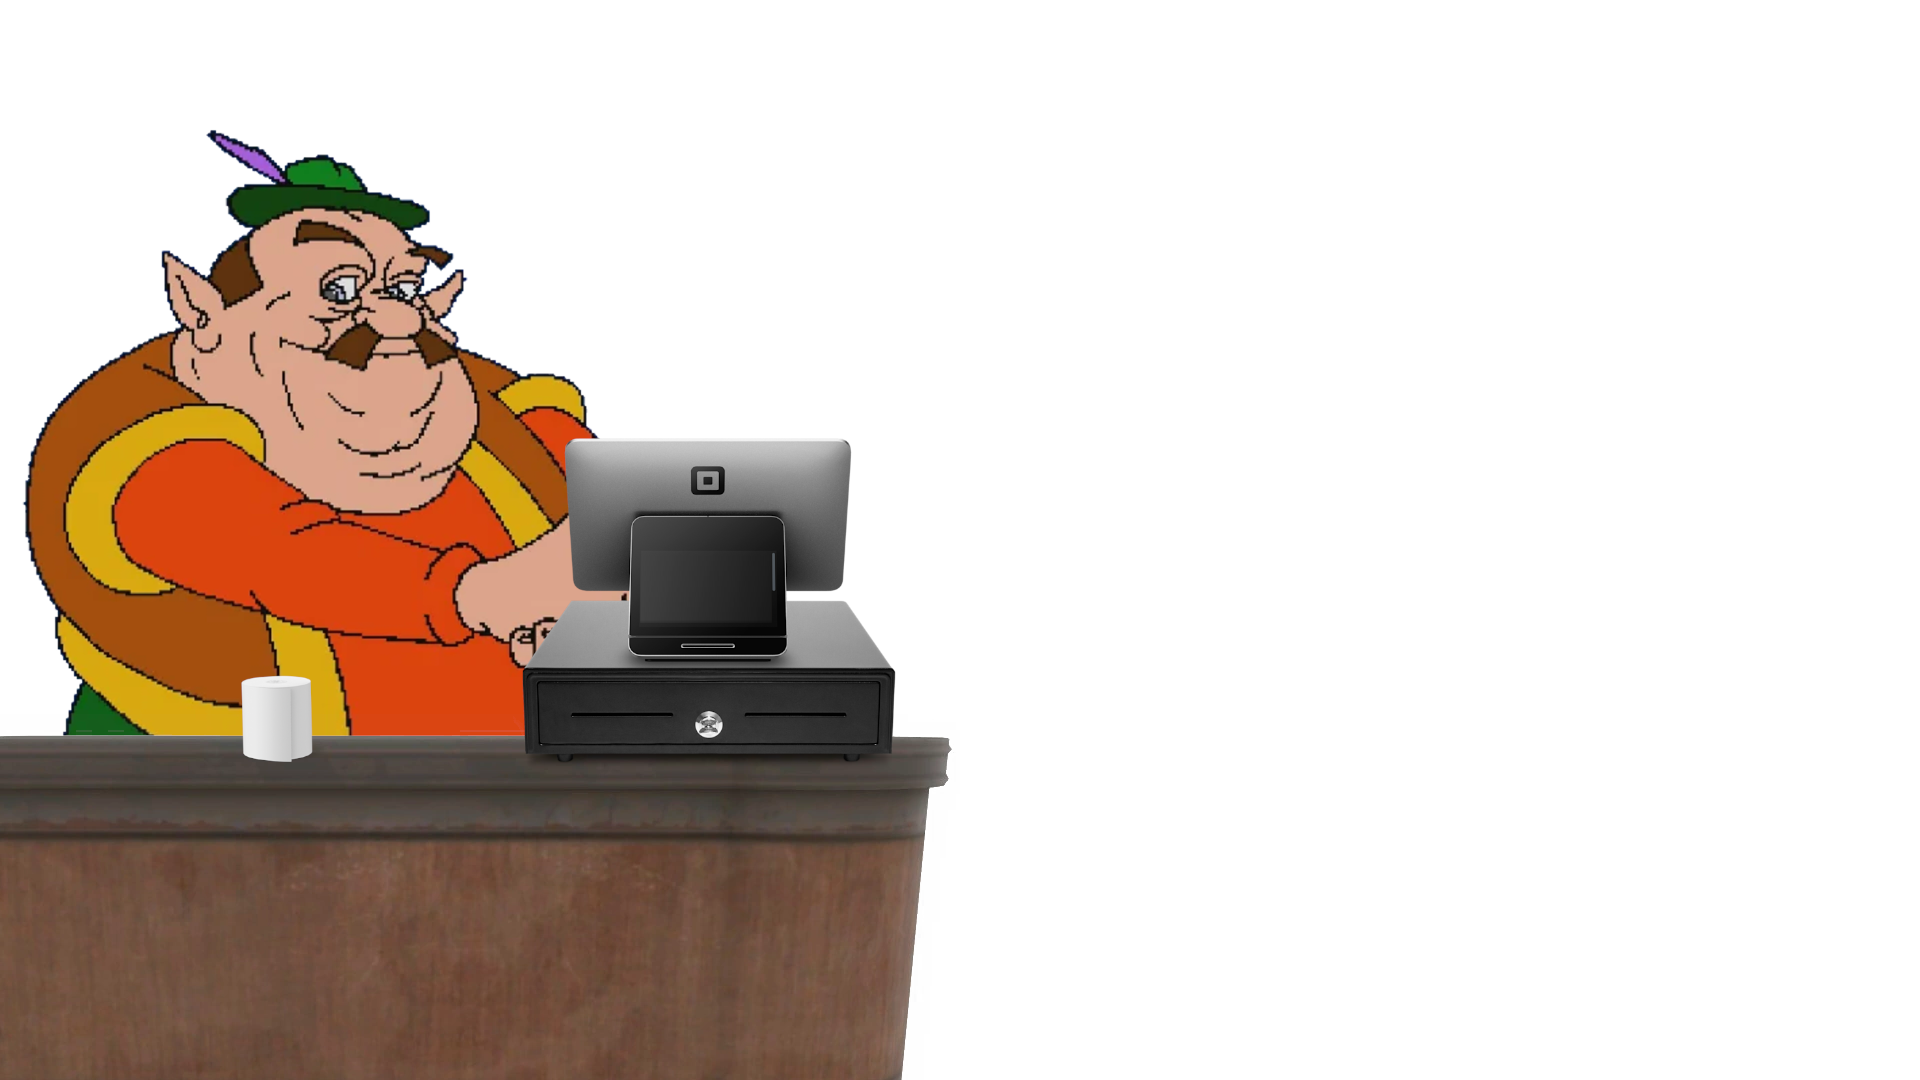
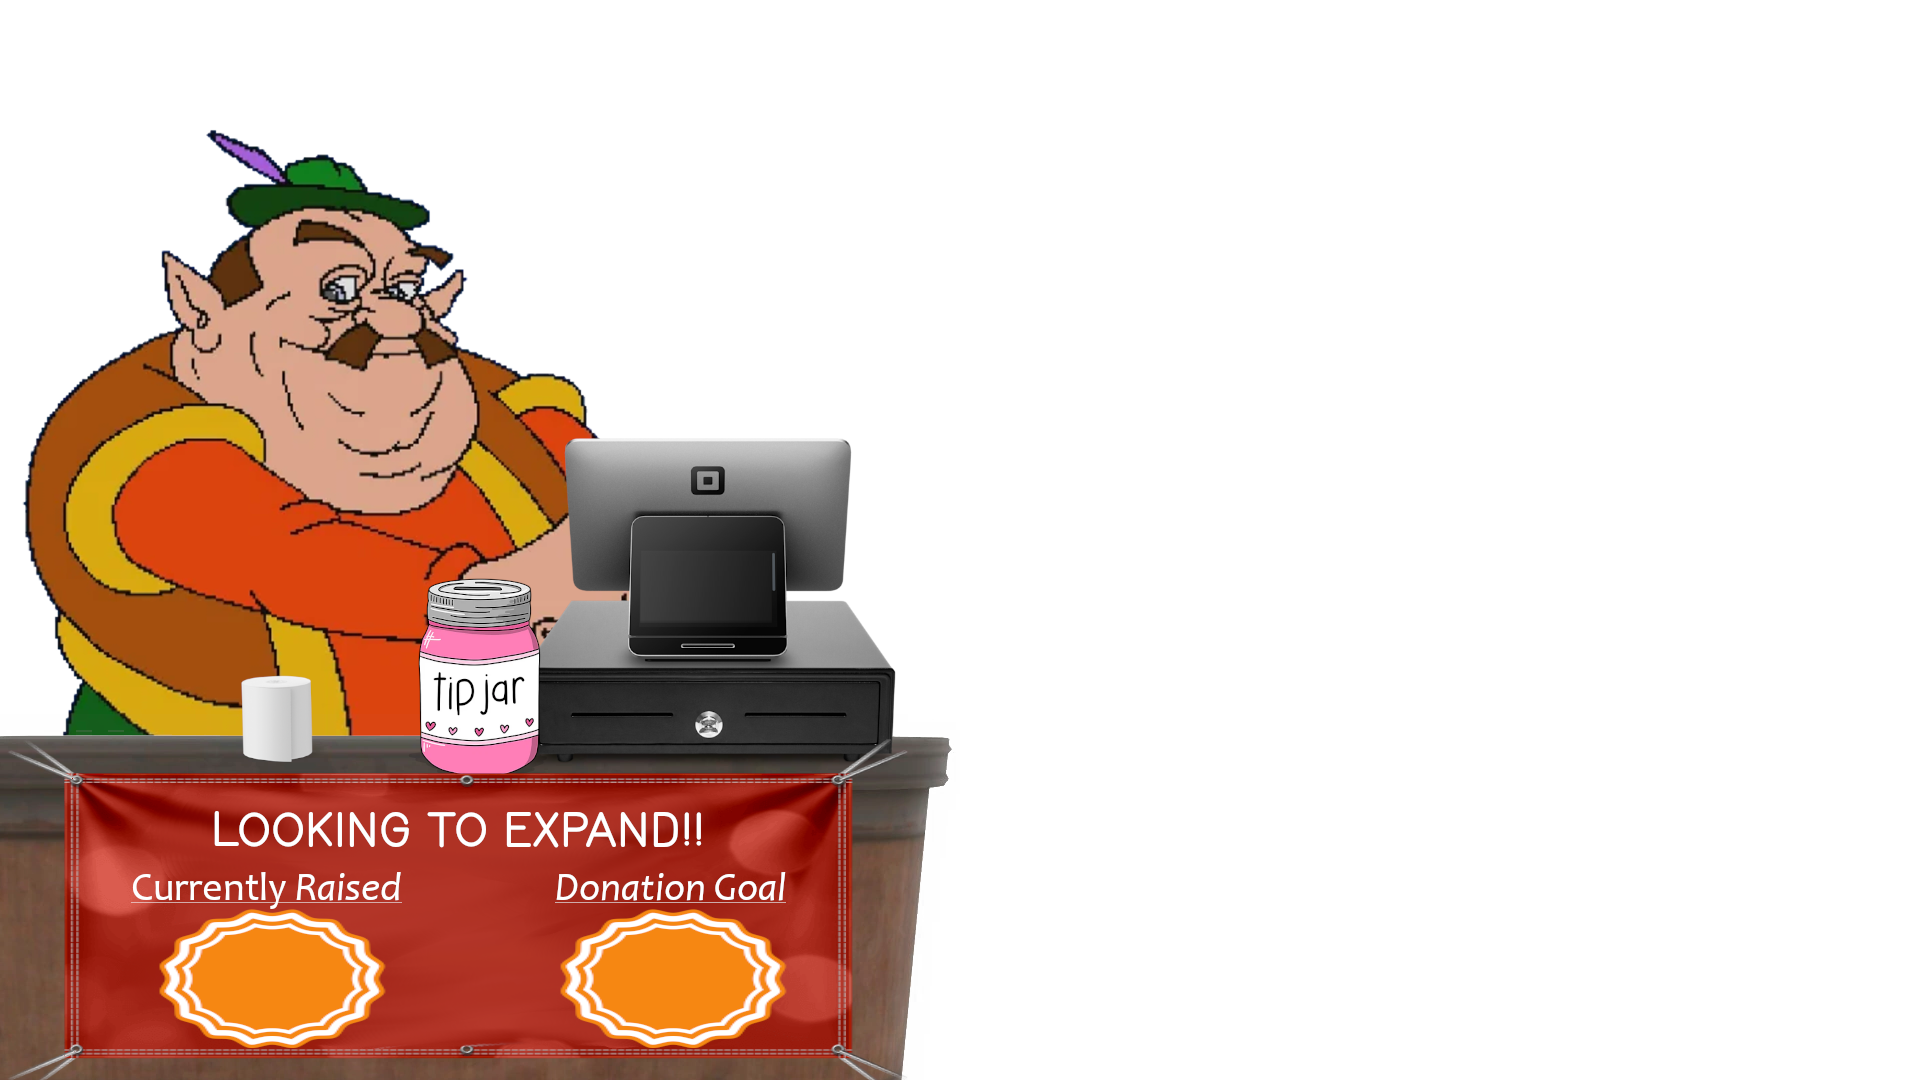
- ADDED Donation function to Morshu's Shop

Changed region(s): [[0.0, 0.5194, 0.4688, 1.0]]

diff --git a/src/discord/game_features/shop/ShopView.py b/src/discord/game_features/shop/ShopView.py
@@ -1,3 +1,4 @@
+from src.commons.CommonDecorators import interaction_guard
 from src.commons.GameStateManager import get_game_state_manager
 from src.discord.game_features.player_profile.PlayerProfileImageFactory import *
 from src.discord.game_features.shop.ShopImageFactory import ShopImageFactory
@@ -14,6 +15,7 @@ class ShopView(BaseView):
         # DECLARE VIEW ITEMS
         self.shop_items_dropdown = self.create_shop_items_dropdown(row=0)
         self.buy_item_button = self.create_buy_item_button(row=1)
+        self.donate_button = self.create_donate_button(row=1)
 
         # Add buttons to view
         super().refresh_view()
@@ -35,6 +37,18 @@ class ShopView(BaseView):
             confirmation_view = BuyConfirmationView(self.message_author, self.selected_shop_item, self.is_avatar_selected, self, interaction.message)
             message = f"Are you sure you want to buy this {"Avatar" if self.is_avatar_selected else "Item"}: {getattr(self.selected_shop_item, 'name' if self.is_avatar_selected else 'item_name')} for {self.selected_shop_item.shop_price}💰?"
             await interaction.response.send_message(message, files=[convert_to_png(image=(getattr(self.selected_shop_item, 'avatar_image' if self.is_avatar_selected else 'item_image')), file_name="selected_item.png")], view=confirmation_view, ephemeral=True)
+        return callback
+
+    def create_donate_button(self, row=1):
+        button = discord.ui.Button(label="Donate to Morshu", style=discord.ButtonStyle.primary, disabled=False, row=row)
+        button.callback = self.donate_callback()
+        return button
+    def donate_callback(self):
+        @interaction_guard()
+        async def callback(interaction):
+            # Open a modal to ask how much to donate
+            modal = DonationModal(message_author=self.message_author, parent_view=self, original_message=interaction.message)
+            await interaction.response.send_modal(modal)
         return callback
 
     def create_shop_items_dropdown(self, row=2):
@@ -81,6 +95,7 @@ class ShopView(BaseView):
     ''' ----- SUPPORT FUNCTIONS ---------------------------------------------------------------------------------------------------------------------------------------------------------------------------------------------------------------------------------------------------------------------------------------------------------------------'''
     def update_view_items(self):
         self.buy_item_button.disabled = not self.selected_shop_item
+        self.donate_button.disabled = (self.message_author.currency <= 0)
         self.shop_items_dropdown.placeholder = "Select an item to purchase..." if not self.selected_shop_item else f"{'🚻Avatar' if self.is_avatar_selected else '🎒Item'}: {self.selected_shop_item.name if self.is_avatar_selected else self.selected_shop_item.item_name} ({self.selected_shop_item.shop_price}💰)"
 
     def rebuild_view(self):
@@ -90,6 +105,7 @@ class ShopView(BaseView):
         self.add_item(self.shop_items_dropdown)
         # row 1
         self.add_item(self.buy_item_button)
+        self.add_item(self.donate_button)
 
         # row 4
         self.add_item(self.close_button)
@@ -157,3 +173,68 @@ class BuyConfirmationView(discord.ui.View):
             message = f"Purchase confirmed! You bought the {"avatar" if self.is_avatar else "item"}: {getattr(self.purchased_item, "name" if self.is_avatar else "item_name")}!"
             await interaction.followup.send(message, file=convert_to_png(image=(getattr(self.purchased_item, ("avatar_unlock_image" if self.is_avatar else "item_unlock_image"))), file_name="purchased_shop_item.png"), ephemeral=True)
         return callback
+
+class DonationModal(discord.ui.Modal):
+    amount = discord.ui.TextInput(label="How much would you like to donate?", style=discord.TextStyle.short, placeholder="Enter amount", required=True, max_length=10)
+
+    def __init__(self, message_author, parent_view: ShopView, original_message=None):
+        super().__init__(title="Donate to Morshu")
+        self.message_author = message_author
+        self.parent_view = parent_view
+        self.original_message = original_message
+
+    async def on_submit(self, interaction: discord.Interaction):
+        await interaction.response.defer()
+
+        raw = self.amount.value.strip().replace(',', '')
+        try:
+            amount = int(raw)
+        except ValueError:
+            await interaction.followup.send("Please enter a valid whole number amount.", ephemeral=True)
+            return
+
+        if amount <= 0:
+            await interaction.followup.send("Donation amount must be greater than zero.", ephemeral=True)
+            return
+
+        if self.message_author.currency < amount:
+            await interaction.followup.send("You don't have enough currency to donate that amount.", ephemeral=True)
+            return
+
+        # Deduct currency from user (DB expects delta)
+        get_tgommo_db_handler().update_user_profile_currency(user_id=self.message_author.user_id, new_currency=-amount)
+
+        # Update local user cache
+        if hasattr(self.parent_view.image_factory, 'message_author'):
+            self.parent_view.image_factory.message_author.currency -= amount
+        else:
+            self.message_author.currency -= amount
+
+        # Update global shop donation total and handle level ups
+        gsm = get_game_state_manager()
+        current_level = gsm.get_shop_level()
+        donation_total = gsm.get_shop_donation_total() + amount
+
+        leveled_up = False
+        new_level = current_level
+
+        # Support multiple level ups if donation exceeds multiple goals
+        while True:
+            donation_goal = SHOP_LEVEL_COST_MAP.get(new_level, max(SHOP_LEVEL_COST_MAP.values()))
+            if donation_total < donation_goal:
+                break
+            donation_total -= donation_goal
+            new_level += 1
+            leveled_up = True
+
+        gsm.set_shop_level(new_level)
+        gsm.set_shop_donation_total(donation_total)
+
+        if leveled_up:
+            await interaction.followup.send(f"Thank you for your donation of {amount}💰! The shop has leveled up to Level {new_level}! New items may be available, so be sure to check back!",ephemeral=True)
+
+        # Refresh the parent view image
+        if self.original_message:
+            await self.original_message.edit(attachments=[self.parent_view.reload_image()], view=self.parent_view)
+
+        await interaction.followup.send(f"Thank you for donating {amount}💰 to Morshu!", ephemeral=True)

diff --git a/src/resources/constants/TGO_MMO_constants.py b/src/resources/constants/TGO_MMO_constants.py
@@ -298,6 +298,13 @@ CREATURE_INVENTORY_MODE_RELEASE_RESULTS = "Release Results"
 """ ----- ITEM INVENTORY  ---------------------------------------------------------------------------------------------------------------------------------------------------------------------------------------------------------------------------------------------------------------------------------------------------------------------"""
 
 
+""" ----- SHOP  ---------------------------------------------------------------------------------------------------------------------------------------------------------------------------------------------------------------------------------------------------------------------------------------------------------------------"""
+SHOP_LEVEL_COST_MAP = {
+    1: 2500,
+    2: 5000,
+    3: 5000,
+}
+
 """ ----- COLLECTIONS  ---------------------------------------------------------------------------------------------------------------------------------------------------------------------------------------------------------------------------------------------------------------------------------------------------------------------"""
 # region Collection Keywords
 VARIANTS_COLLECTION_KEYWORD = "Variants"

diff --git a/src/discord/game_features/shop/ShopImageFactory.py b/src/discord/game_features/shop/ShopImageFactory.py
@@ -59,4 +59,11 @@ class ShopImageFactory(BaseImageFactory):
         font = resize_text_to_fit(text=f"{self.message_author.currency}", draw=draw, font=ImageFont.truetype(FONT_FOREST_REGULAR_FILE, 65), max_width=276, min_font_size=7)
         draw.text(get_centered_text_position(text=f"{self.message_author.currency}", font=font, center_pixel_location=(1686, 62)), f"{self.message_author.currency}", fill=FONT_COLOR_BLACK, font=font)
 
+        # ADD CURRENT DONATION & DONATION GOAL TO IMAGE
+        donation_amount = f"{get_game_state_manager().get_shop_donation_total()}"
+        donation_goal = f"{SHOP_LEVEL_COST_MAP[get_game_state_manager().get_shop_level()]}"
 
+        donation_font = resize_text_to_fit(text=donation_goal, draw=draw, font=ImageFont.truetype(FONT_FOREST_REGULAR_FILE, 40), max_width=120, min_font_size=7)
+
+        draw.text(get_centered_text_position(text=donation_amount, font=donation_font, center_pixel_location=(272, 972)), donation_amount, fill=FONT_COLOR_WHITE, font=donation_font)
+        draw.text(get_centered_text_position(text=donation_goal, font=donation_font, center_pixel_location=(672, 972)), donation_goal, fill=FONT_COLOR_WHITE, font=donation_font)
